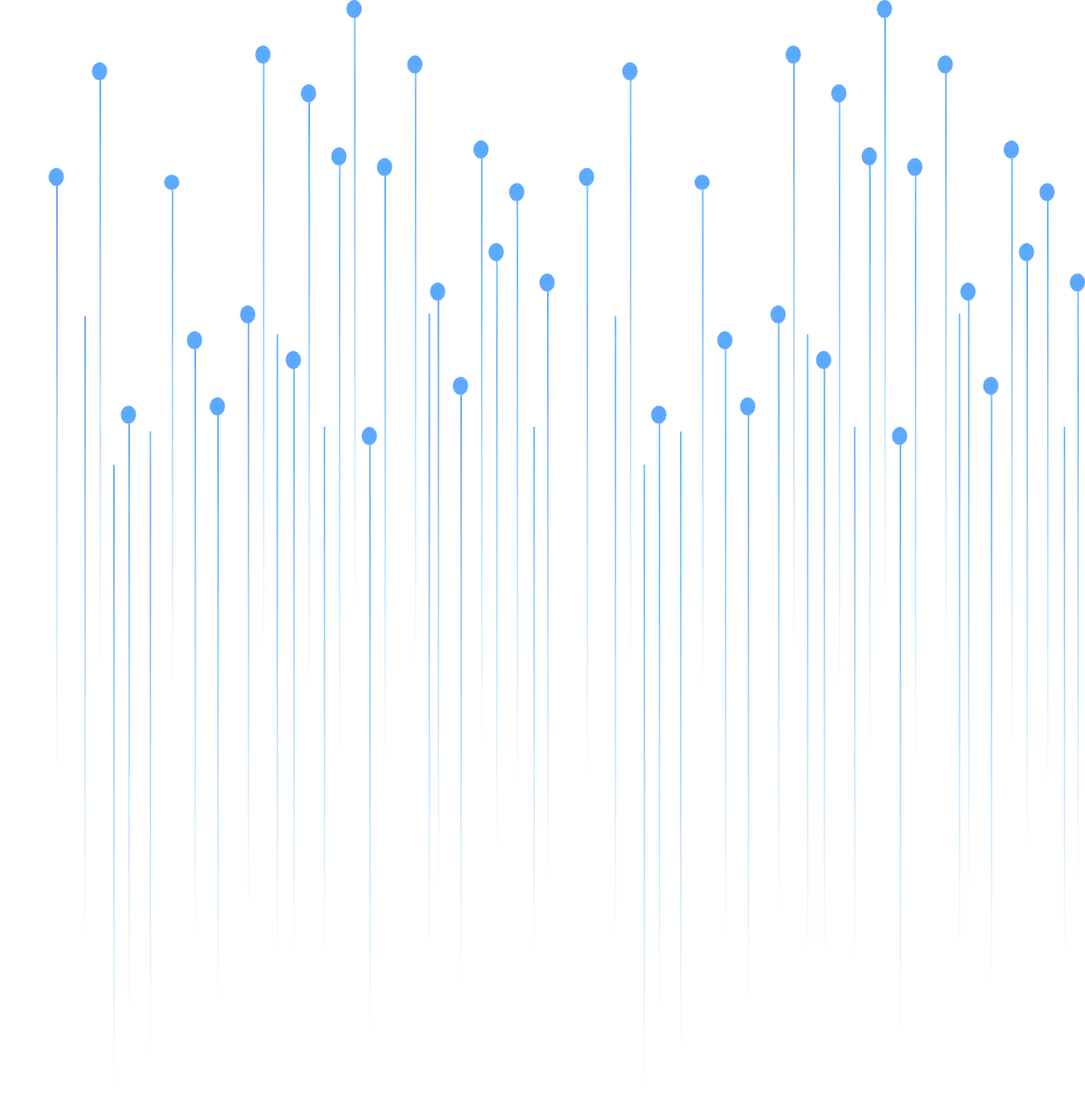
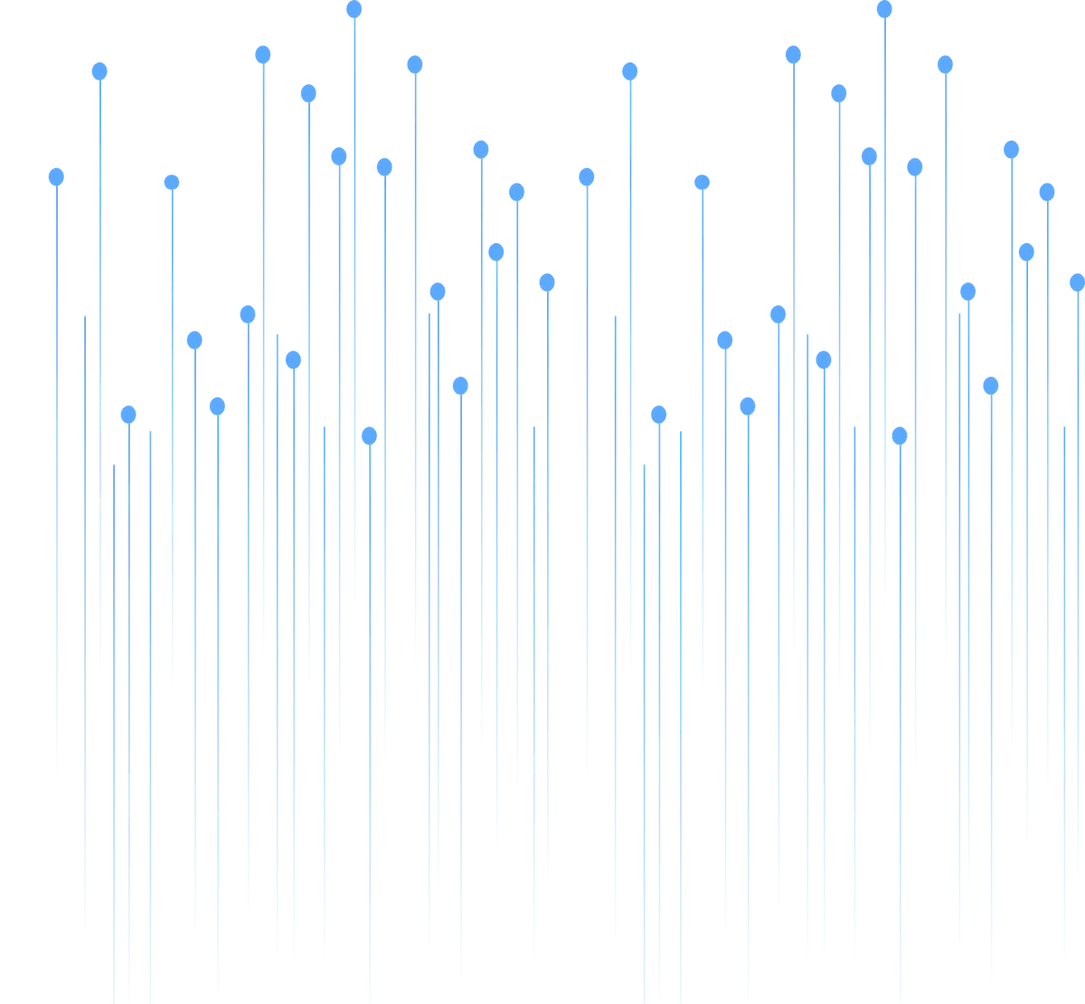
Updates

diff --git a/css/index.min.css b/css/index.min.css
@@ -1,1 +1,1 @@
-*{border:0;margin:0;padding:0}*,:after,:before{box-sizing:border-box}:after,:before{display:inline-block}body,html{height:100%}body{line-height:1;scrollbar-gutter:stable;-ms-text-size-adjust:100%;-moz-text-size-adjust:100%;-webkit-text-size-adjust:100%;-webkit-font-smoothing:antialiased;-moz-osx-font-smoothing:grayscale}button,input,textarea{background-color:transparent;color:inherit;font-family:inherit;font-size:inherit;line-height:inherit}input,textarea{width:100%}label{display:inline-block}button,option,select{cursor:pointer}a{color:inherit;display:inline-block;text-decoration:none}ul li{list-style:none}img{height:auto;max-width:100%;vertical-align:middle}h1,h2,h3,h4,h5,h6{font-size:inherit;font-weight:inherit}address{font-style:normal}body{color:#0a0a0a;font-family:Arial,sans-serif;font-size:1rem;line-height:1.2;min-width:20rem}[data-fls-scrolllock] body{overflow:hidden;overscroll-behavior:none;touch-action:none}.wrapper{display:flex;flex-direction:column;min-height:100%;overflow:clip}.wrapper>main{flex:1 1 auto}.wrapper>*{min-width:0}[class*=__container]{margin:0 auto;max-width:97.5rem;padding-left:1.25rem;padding-right:1.25rem}html{scroll-behavior:smooth}.about{position:relative}.about__bg-wrapper{inset:0;overflow:hidden;position:absolute;z-index:-1}.about__container{position:relative}.block-about{opacity:0;transform:translateY(3.75rem) scale(1);transform:translateY(1.25rem);transform-origin:top center;transition:transform .6s cubic-bezier(.22,1,.36,1),opacity .6s ease;will-change:transform,opacity}.block-about.is-show{opacity:1;transform:translateY(0)}.block-about.--watcher-out{opacity:0;transform:scaleX(.7) scaleY(1.1) translateY(-6.25rem)}.block-about__header{display:flex;min-height:2.5rem;position:relative}.block-about__header,.block-about__label{align-items:center;justify-content:center}.block-about__label{background:#394662;border-radius:6.25rem;color:#fff;display:inline-flex;display:flex;font-size:.75rem;font-weight:700;justify-self:flex-start;left:0;padding:.8125rem;position:absolute;text-transform:uppercase;top:0}.block-about__items{display:grid;gap:1.25rem;grid-template-columns:repeat(4,1fr)}.block-about__title{text-align:center;text-transform:uppercase}.block-about--first .item-about__content{min-height:7.625rem}.block-about--first .item-about{min-height:21.375rem}.block-about--third .block-about__items{grid-template-columns:repeat(3,1fr)}.block-about--third .item-about{min-height:23.9375rem}.block-about--third .item-about__content{min-height:7.625rem}.item-about{--opened-text-height:0rem;background:#fff;border:.0625rem solid #d3d7de;border-radius:1rem;display:flex;flex-direction:column;min-height:19.5625rem;overflow:hidden}.item-about__image{flex:1 1 auto;min-height:5rem;position:relative;transition:flex-basis .5s ease;width:100%}.item-about__image img{height:100%;inset:0;object-fit:cover;position:absolute;width:100%}.item-about__content{flex:0 0 auto;min-height:5.8125rem;padding:1.5625rem 2.5rem 2rem}.item-about__title{line-height:1.15;margin:0}.item-about__text{line-height:1.25;max-height:0;opacity:0;overflow:hidden;padding-top:.5rem;transition:max-height .5s ease,opacity .35s ease}.item-about__text a{font-size:.75rem}.item-about__text small{display:block;line-height:1.3;margin-top:.5rem}html.touch .item-about.is-open .item-about__text{max-height:var(--opened-text-height);opacity:1}html.touch .item-about.is-open .item-about__image{flex-basis:calc(100% - var(--content-closed-height) - var(--opened-text-height))}.why{opacity:0;transform:translateY(1.875rem);transform-origin:top center;transition:opacity 1s ease .5s,transform 1s ease .5s}.why.--watcher-view{opacity:1;transform:translateY(0)}.why{background:#394662;border-radius:2.5rem;color:#fff}.why__title{align-items:flex-end;display:flex;gap:.75rem;justify-content:center;letter-spacing:-.0625rem;margin-bottom:1rem;text-align:center;text-transform:uppercase}.why__title span{margin-bottom:-.5rem}.why__title img{align-self:flex-end;justify-self:flex-start}.why__text b{font-weight:700}.table-tariff{opacity:0;transform:translateY(1.875rem);transform-origin:top center;transition:opacity 1s ease .5s,transform 1s ease .5s}.table-tariff.--watcher-view{opacity:1;transform:translateY(0)}.table-tariff{background-color:#fff;border:.0625rem solid #e5e7eb;border-radius:1rem;margin:0 auto;width:100%}.table-tariff__row{align-items:center;display:grid;grid-template-columns:2fr 1fr 1fr;transition:all .2s}.table-tariff__head{background:#f5f7fa;font-weight:500;padding:1.125rem 0}.table-tariff__body .table-tariff__row{border-top:.0625rem solid #e5e7eb}.table-tariff__cell{line-height:1.2;padding:1.125rem 2.5rem}.table-tariff__cell--feature{text-align:left}.table-tariff__cell--plan{text-align:center}.table-tariff__footer{background:#f5f7fa;line-height:1.3;padding:1.3125rem 1.25rem;text-align:center}.text-green{color:#39b54a;font-weight:500}.connect{opacity:0;transform:translateY(1.25rem);transition:all 1s .3s}.connect.--watcher-view{opacity:1;transform:translateY(0)}.connect{background-color:#39b54a;border-radius:2.5rem;color:#fff}.connect__title{letter-spacing:-.0625rem;text-align:center;text-transform:uppercase}.connect__form-wrapper{background:hsla(0,0%,100%,.2);border-radius:1rem;min-height:9rem}.connect__form-wrapper,.connect__success{align-items:center;display:flex;justify-content:center}.connect__success{display:none;text-align:center;width:100%}.connect__success-title{font-weight:700;text-transform:uppercase}.form-connect{display:grid;gap:1.25rem;grid-template-columns:1fr 1fr 13.75rem;width:100%}.form-connect__input{background:#fff;border-radius:.5rem;color:#0a0a0a;height:4rem;outline:none;padding:1rem 2.5rem}.form-connect__button{background-color:#fff;border-radius:6.25rem;color:#0a0a0a;padding:1.375rem;transition:all .3s}.content-wrapper{height:100%;overflow:hidden;position:relative}.content-wrapper__track{animation:linesMove 10s linear infinite;display:flex;flex-direction:column;left:0;position:absolute;top:0;width:100%}.content-wrapper__line{display:block;opacity:.15;width:100%;z-index:-1}@keyframes linesMove{0%{transform:translateY(0)}to{transform:translateY(-50%)}}.header{background:url(../assets/img/header_bg.webp) 50%/cover no-repeat;min-height:100vh;position:relative;z-index:1000}.header:after{background:linear-gradient(141.1deg,hsla(0,0%,4%,.8) 12.085%,hsla(0,0%,4%,0) 60.296%);content:"";height:100%;left:0;position:absolute;top:0;width:100%}.header{color:#fff;display:flex}.header__video{height:100%;left:0;object-fit:cover;position:absolute;top:0;width:100%}.header__container{align-items:center;display:flex;justify-content:stretch;width:100%}.header__layout{position:relative;z-index:10}.header__visual{align-items:flex-end;display:flex;flex-wrap:wrap;margin-bottom:1rem;opacity:0;row-gap:.625rem;transform:translateY(1.25rem);transition:all .8s .1s}.header__visual.--watcher-view{opacity:1;transform:translateY(0)}.header__title{max-width:62.5rem;opacity:0;transform:translateY(1.25rem);transition:all .8s .4s}.header__title.--watcher-view{opacity:1;transform:translateY(0)}.header__button-wrapper{opacity:0;transform:translateY(1.25rem);transition:all 1s .7s}.header__button-wrapper.--watcher-view{opacity:1;transform:translateY(0)}.header__button{align-items:center;background-color:#39b54a;border:.0625rem solid #39b54a;border-radius:6.25rem;display:inline-flex;justify-content:center;padding:1.75rem 6.625rem;transition:all .3s ease}.header__button:active{transform:translateY(.3125rem)}.footer__top{align-items:center;display:flex;flex-wrap:wrap;gap:2rem;justify-content:space-between}.footer__logo img{margin-top:-1.25rem;width:100%}.footer__url{transition:all .3s}.footer__social{display:flex}.footer__social a{transition:all .3s}.footer__social{gap:1rem}.bottom-footer{background:#e5e7eb;color:rgba(0,0,0,.5);padding:.625rem 1.25rem}.bottom-footer__container{display:flex;flex-wrap:wrap;gap:1rem;justify-content:space-between}input[type=email],input[type=tel],input[type=text],textarea{-webkit-appearance:none;-moz-appearance:none;appearance:none}.input{caret-color:inherit;display:block;width:100%}.input::placeholder{color:rgba(54,65,83,.8)}.input[placeholder]:not([data-fls-placeholder-nohiden])::placeholder{transition:opacity .3s}.input[placeholder]:not([data-fls-placeholder-nohiden]):focus::placeholder{opacity:0}textarea.input{padding:0;resize:vertical}.button{display:inline-flex;padding:0}.button--fw{width:100%}@media (max-width:97.5em){.item-about__content{padding:1.5625rem}}@media (width <= 68.75em){.block-about__items{gap:.75rem}.block-about--first .item-about__content{min-height:6.25rem}.block-about--first .item-about,.block-about--third .item-about{min-height:19.375rem}.block-about--third .item-about__content{min-height:5.3125rem}}@media (max-width:68.75rem){.block-about{opacity:1!important;transform:none!important}}@media (max-width:68.75em){.block-about--third .block-about__items,.block-about__items{grid-template-columns:repeat(2,1fr)}}@media (max-width:61.99875em){.item-about__content{padding:1.25rem}.table-tariff__cell{padding:.875rem 1.5rem}.form-connect{gap:.9375rem;grid-template-columns:1fr 1fr 11.25rem}.form-connect__input{padding:1rem}.header__button{padding:2rem 6rem}}@media (max-width:47.99875em){.block-about__header{flex-direction:column;row-gap:1.25rem}.block-about__label{position:relative}.block-about--first .item-about,.block-about--third .item-about{min-height:17.5rem}.item-about__content{min-height:6.25rem;padding:1rem}.table-tariff__row{grid-template-columns:1.6fr 1fr 1fr}.table-tariff__cell{padding:.875rem 1rem}.table-tariff__cell--plan{padding:.875rem .75rem}.form-connect{font-size:.875rem;grid-template-columns:1fr}.form-connect__input{padding:1rem 2rem}.form-connect__button{padding:1.125rem}.header:after{background:linear-gradient(141.1deg,hsla(0,0%,4%,.8) 12.085%,hsla(0,0%,4%,.45) 60.296%)}.header__button{padding:1.5rem 4rem}}@media (max-width:37.5em){.block-about--third .block-about__items{grid-template-columns:repeat(1,1fr)}}@media (width <= 35em){.block-about--first .item-about__content{min-height:4.375rem}.block-about--first .item-about{min-height:13.75rem}.block-about--third .item-about{min-height:15rem}.block-about--third .item-about__content{min-height:4.375rem}.item-about{min-height:13.75rem}}@media (max-width:35em){.block-about__items{grid-template-columns:1fr}}@media (width <= 33.75em){.item-about__content{min-height:4.375rem}}@media (max-width:29.99875em){.form-connect__input{padding:1rem}.header__button{padding:1.25rem 3rem;width:100%}}@media (width <= 20em){.block-about{padding-bottom:3.75rem;padding-top:3.75rem}.block-about__header{margin-bottom:1.625rem}.block-about__title,.item-about__title{font-size:1.125rem}.why{margin-bottom:3.75rem;margin-left:.0625rem;margin-right:1rem;padding-bottom:3.125rem;padding-top:3.125rem}.why__title{font-size:1.375rem}.why__title img{width:5rem}.why__text{font-size:1rem}.tariff{margin-bottom:3.75rem}.table-tariff{font-size:.875rem}.table-tariff__cell--smart img{width:5rem}.connect{margin-left:1rem;margin-right:1rem;padding-bottom:2.5rem;padding-top:2.5rem}.connect__title{font-size:1.375rem;margin-bottom:1.625rem}.connect__form-wrapper{padding:1rem}.connect__success-title{font-size:1.25rem}.header{padding-bottom:5rem;padding-top:5rem}.header__visual{column-gap:1.25rem}.header__title{font-size:2.25rem}.header__logo{width:11.25rem}.header__logo-smart{width:10.625rem}.header__button{font-size:1.5rem;margin-top:1.5rem}.footer__top{padding-bottom:2.5rem;padding-top:2.5rem}.footer__logo{width:7.5rem}.footer__url{font-size:1.125rem}.footer__social a{width:1.5rem}.bottom-footer{font-size:.75rem}}@media (width > 20em) and (width <= 97.5em){.header{padding-bottom:clamp(5rem,4.354838709675rem + 3.2258064516vw,7.5rem);padding-top:clamp(5rem,4.354838709675rem + 3.2258064516vw,7.5rem)}.header__visual{column-gap:clamp(1.25rem,.895161290325rem + 1.7741935484vw,2.625rem)}.header__title{font-size:clamp(2.25rem,1.798387096775rem + 2.2580645161vw,4rem)}.header__logo{width:clamp(11.25rem,8.6209677419375rem + 13.1451612903vw,21.4375rem)}.header__logo-smart{width:clamp(10.625rem,8.02822580645rem + 12.9838709677vw,20.6875rem)}.header__button{font-size:clamp(1.5rem,1.3225806451625rem + .8870967742vw,2.1875rem);margin-top:clamp(1.5rem,1.24193548386875rem + 1.2903225806vw,2.5rem)}.footer__top{padding-bottom:clamp(2.5rem,1.53225806451875rem + 4.8387096774vw,6.25rem);padding-top:clamp(2.5rem,1.53225806451875rem + 4.8387096774vw,6.25rem)}.footer__logo{width:clamp(7.5rem,5.30645161290625rem + 10.9677419355vw,16rem)}.footer__url{font-size:clamp(1.125rem,1.02822580645rem + .4838709677vw,1.5rem)}.footer__social a{width:clamp(1.5rem,1.3709677419375rem + .6451612903vw,2rem)}.bottom-footer{font-size:clamp(.75rem,.68548387096875rem + .3225806452vw,1rem)}}@media (width > 20em) and (width <= 120em){.block-about{padding-bottom:clamp(3.75rem,2.25rem + 7.5vw,11.25rem);padding-top:clamp(3.75rem,2.25rem + 7.5vw,11.25rem)}.block-about__header{margin-bottom:clamp(1.625rem,.95rem + 3.375vw,5rem)}.block-about__title,.item-about__title{font-size:clamp(1.125rem,1.05rem + .375vw,1.5rem)}.why{margin-bottom:clamp(3.75rem,3rem + 3.75vw,7.5rem);margin-left:clamp(.0625rem,-.55rem + 3.0625vw,3.125rem);margin-right:clamp(1rem,.575rem + 2.125vw,3.125rem);padding-bottom:clamp(3.125rem,2.375rem + 3.75vw,6.875rem);padding-top:clamp(3.125rem,2.375rem + 3.75vw,6.875rem)}.why__title{font-size:clamp(1.375rem,1.25rem + .625vw,2rem)}.why__title img{width:clamp(5rem,4.3125rem + 3.4375vw,8.4375rem)}.why__text{font-size:clamp(1rem,.9rem + .5vw,1.5rem)}.tariff{margin-bottom:clamp(3.75rem,3.25rem + 2.5vw,6.25rem)}.table-tariff{font-size:clamp(.875rem,.75rem + .625vw,1.5rem)}.table-tariff__cell--smart img{width:clamp(5rem,4.1125rem + 4.4375vw,9.4375rem)}.connect{margin-left:clamp(1rem,.575rem + 2.125vw,3.125rem);margin-right:clamp(1rem,.575rem + 2.125vw,3.125rem);padding-bottom:clamp(2.5rem,2.25rem + 1.25vw,3.75rem);padding-top:clamp(2.5rem,2.25rem + 1.25vw,3.75rem)}.connect__title{font-size:clamp(1.375rem,1.25rem + .625vw,2rem);margin-bottom:clamp(1.625rem,1.15rem + 2.375vw,4rem)}.connect__form-wrapper{padding:clamp(1rem,.7rem + 1.5vw,2.5rem)}.connect__success-title{font-size:clamp(1.25rem,1.15rem + .5vw,1.75rem)}}@media (min-width:47.99875em){.block-about__title{margin:0 12.5rem}.footer__url{margin-right:-10%}}@media (min-width:61.99875em){.why__content{padding:0 3.125rem}.table-tariff{margin:0 1.5rem}.connect__body{padding:0 2.125rem}}@media (width > 68.75em) and (width <= 120em){.block-about__items{gap:clamp(.75rem,.07926829268125rem + .9756097561vw,1.25rem)}}@media (width > 97.5em){.header{padding-bottom:7.5rem;padding-top:7.5rem}.header__visual{column-gap:2.625rem}.header__title{font-size:4rem}.header__logo{width:21.4375rem}.header__logo-smart{width:20.6875rem}.header__button{font-size:2.1875rem;margin-top:2.5rem}.footer__top{padding-bottom:6.25rem;padding-top:6.25rem}.footer__logo{width:16rem}.footer__url{font-size:1.5rem}.footer__social a{width:2rem}.bottom-footer{font-size:1rem}}@media (width > 120em){.block-about{padding-bottom:11.25rem;padding-top:11.25rem}.block-about__header{margin-bottom:5rem}.block-about__items{gap:1.25rem}.block-about__title,.item-about__title{font-size:1.5rem}.why{margin-bottom:7.5rem;margin-left:3.125rem;margin-right:3.125rem;padding-bottom:6.875rem;padding-top:6.875rem}.why__title{font-size:2rem}.why__title img{width:8.4375rem}.why__text{font-size:1.5rem}.tariff{margin-bottom:6.25rem}.table-tariff{font-size:1.5rem}.table-tariff__cell--smart img{width:9.4375rem}.connect{margin-left:3.125rem;margin-right:3.125rem;padding-bottom:3.75rem;padding-top:3.75rem}.connect__title{font-size:2rem;margin-bottom:4rem}.connect__form-wrapper{padding:2.5rem}.connect__success-title{font-size:1.75rem}}@media (any-hover:hover),(pointer:fine){html:not([data-fls-touch]) .item-about:hover .item-about__text{max-height:var(--opened-text-height);opacity:1}html:not([data-fls-touch]) .item-about:hover .item-about__image{flex-basis:calc(100% - var(--content-closed-height) - var(--opened-text-height))}html:not([data-fls-touch]) .item-about__text a:hover{text-decoration:underline}html:not([data-fls-touch]) .table-tariff__row:hover{background:rgba(57,181,74,.15)}html:not([data-fls-touch]) .table-tariff__footer:hover,html:not([data-fls-touch]) .table-tariff__head:hover{background:#f5f7fa}html:not([data-fls-touch]) .form-connect__button:hover{background-color:#0a0a0a;color:inherit}html:not([data-fls-touch]) .header__button:hover{background-color:#101828;border-color:#fff}html:not([data-fls-touch]) .footer__url:hover{color:#39b54a}html:not([data-fls-touch]) .footer__social a:hover{transform:scale(1.12)}html:not([data-fls-touch]) .bottom-footer__policy:hover{text-decoration:underline}}
+*{border:0;margin:0;padding:0}*,:after,:before{box-sizing:border-box}:after,:before{display:inline-block}body,html{height:100%}body{line-height:1;scrollbar-gutter:stable;-ms-text-size-adjust:100%;-moz-text-size-adjust:100%;-webkit-text-size-adjust:100%;-webkit-font-smoothing:antialiased;-moz-osx-font-smoothing:grayscale}button,input,textarea{background-color:transparent;color:inherit;font-family:inherit;font-size:inherit;line-height:inherit}input,textarea{width:100%}label{display:inline-block}button,option,select{cursor:pointer}a{color:inherit;display:inline-block;text-decoration:none}ul li{list-style:none}img{height:auto;max-width:100%;vertical-align:middle}h1,h2,h3,h4,h5,h6{font-size:inherit;font-weight:inherit}address{font-style:normal}body{color:#0a0a0a;font-family:Arial,sans-serif;font-size:1rem;line-height:1.2;min-width:20rem}[data-fls-scrolllock] body{overflow:hidden;overscroll-behavior:none;touch-action:none}.wrapper{display:flex;flex-direction:column;min-height:100%;overflow:clip}.wrapper>main{flex:1 1 auto}.wrapper>*{min-width:0}[class*=__container]{margin:0 auto;max-width:97.5rem;padding-left:1.25rem;padding-right:1.25rem}html{scroll-behavior:smooth}.content-wrapper{height:100%;overflow:hidden;position:relative}.content-wrapper__track{animation:linesMove 70s linear infinite;display:flex;flex-direction:column;left:0;position:absolute;top:0;width:100%;will-change:transform}.content-wrapper__line{display:block;flex:0 0 auto;opacity:.1;position:relative;width:100%;z-index:-1}.content-wrapper__line:not(:first-child){margin-top:-43.75rem}@keyframes linesMove{0%{transform:translateY(0)}to{transform:translateY(-100%)}}.about{position:relative}.about__bg-wrapper{inset:0;overflow:hidden;position:absolute;z-index:-1}.about__container{position:relative}.block-about{opacity:0;transform:translateY(3.75rem) scale(1);transform:translateY(1.25rem);transform-origin:top center;transition:transform .6s cubic-bezier(.22,1,.36,1),opacity .6s ease;will-change:transform,opacity}.block-about.is-show{opacity:1;transform:translateY(0)}.block-about.--watcher-out{opacity:0;transform:scaleX(.7) scaleY(1.1) translateY(-6.25rem)}.block-about__header{display:flex;min-height:2.5rem;position:relative}.block-about__header,.block-about__label{align-items:center;justify-content:center}.block-about__label{background:#394662;border-radius:6.25rem;color:#fff;display:inline-flex;display:flex;font-size:.75rem;font-weight:700;justify-self:flex-start;left:0;padding:.8125rem;position:absolute;text-transform:uppercase;top:0}.block-about__items{display:grid;gap:1.25rem;grid-template-columns:repeat(4,1fr)}.block-about__title{text-align:center;text-transform:uppercase}.block-about--first .item-about__content{min-height:7.625rem}.block-about--first .item-about{min-height:21.375rem}.block-about--third .block-about__items{grid-template-columns:repeat(3,1fr)}.block-about--third .item-about{min-height:23.9375rem}.block-about--third .item-about__content{min-height:7.625rem}.item-about{--opened-text-height:0rem;background:#fff;border:.0625rem solid #d3d7de;border-radius:1rem;display:flex;flex-direction:column;min-height:19.5625rem;overflow:hidden}.item-about__image{flex:1 1 auto;min-height:5rem;position:relative;transition:flex-basis .5s ease;width:100%}.item-about__image img{height:100%;inset:0;object-fit:cover;position:absolute;width:100%}.item-about__content{flex:0 0 auto;min-height:5.8125rem;padding:1.5625rem 2.5rem 2rem}.item-about__title{line-height:1.15;margin:0}.item-about__text{line-height:1.25;max-height:0;opacity:0;overflow:hidden;padding-top:.5rem;transition:max-height .5s ease,opacity .35s ease}.item-about__text a{font-size:.75rem}.item-about__text small{display:block;line-height:1.3;margin-top:.5rem}html.touch .item-about.is-open .item-about__text{max-height:var(--opened-text-height);opacity:1}html.touch .item-about.is-open .item-about__image{flex-basis:calc(100% - var(--content-closed-height) - var(--opened-text-height))}.why{opacity:0;transform:translateY(1.875rem);transform-origin:top center;transition:opacity 1s ease .5s,transform 1s ease .5s}.why.--watcher-view{opacity:1;transform:translateY(0)}.why{background:#394662;border-radius:2.5rem;color:#fff}.why__title{align-items:flex-end;display:flex;gap:.75rem;justify-content:center;letter-spacing:-.0625rem;margin-bottom:1rem;text-align:center;text-transform:uppercase}.why__title span{margin-bottom:-.5rem}.why__title img{align-self:flex-end;justify-self:flex-start}.why__text b{font-weight:700}.table-tariff{opacity:0;transform:translateY(1.875rem);transform-origin:top center;transition:opacity 1s ease .5s,transform 1s ease .5s}.table-tariff.--watcher-view{opacity:1;transform:translateY(0)}.table-tariff{background-color:#fff;border:.0625rem solid #e5e7eb;border-radius:1rem;margin:0 auto;width:100%}.table-tariff__row{align-items:center;display:grid;grid-template-columns:2fr 1fr 1fr;transition:all .2s}.table-tariff__head{background:#f5f7fa;font-weight:500;padding:1.125rem 0}.table-tariff__body .table-tariff__row{border-top:.0625rem solid #e5e7eb}.table-tariff__cell{line-height:1.2;padding:1.125rem 2.5rem}.table-tariff__cell--feature{text-align:left}.table-tariff__cell--plan{text-align:center}.table-tariff__footer{background:#f5f7fa;line-height:1.3;padding:1.3125rem 1.25rem;text-align:center}.text-green{color:#39b54a;font-weight:500}.connect{opacity:0;transform:translateY(1.25rem);transition:all 1s .3s}.connect.--watcher-view{opacity:1;transform:translateY(0)}.connect{background-color:#39b54a;border-radius:2.5rem;color:#fff}.connect__title{letter-spacing:-.0625rem;text-align:center;text-transform:uppercase}.connect__form-wrapper{background:hsla(0,0%,100%,.2);border-radius:1rem;min-height:9rem}.connect__form-wrapper,.connect__success{align-items:center;display:flex;justify-content:center}.connect__success{display:none;text-align:center;width:100%}.connect__success-title{font-weight:700;text-transform:uppercase}.form-connect{display:grid;gap:1.25rem;grid-template-columns:1fr 1fr 13.75rem;width:100%}.form-connect__input{background:#fff;border-radius:.5rem;color:#0a0a0a;height:4rem;outline:none;padding:1rem 2.5rem}.form-connect__button{background-color:#fff;border-radius:6.25rem;color:#0a0a0a;padding:1.375rem;transition:all .3s}.header{background:url(../assets/img/header_bg.webp) 50%/cover no-repeat;min-height:100vh;position:relative;z-index:1000}.header:after{background:linear-gradient(141.1deg,hsla(0,0%,4%,.8) 12.085%,hsla(0,0%,4%,0) 60.296%);content:"";height:100%;left:0;position:absolute;top:0;width:100%}.header{color:#fff;display:flex}.header__video{height:100%;left:0;object-fit:cover;position:absolute;top:0;width:100%}.header__container{align-items:center;display:flex;justify-content:stretch;width:100%}.header__layout{position:relative;z-index:10}.header__visual{align-items:flex-end;display:flex;flex-wrap:wrap;margin-bottom:1rem;opacity:0;row-gap:.625rem;transform:translateY(1.25rem);transition:all .8s .1s}.header__visual.--watcher-view{opacity:1;transform:translateY(0)}.header__title{max-width:62.5rem;opacity:0;transform:translateY(1.25rem);transition:all .8s .4s}.header__title.--watcher-view{opacity:1;transform:translateY(0)}.header__button-wrapper{opacity:0;transform:translateY(1.25rem);transition:all 1s .7s}.header__button-wrapper.--watcher-view{opacity:1;transform:translateY(0)}.header__button{align-items:center;background-color:#39b54a;border:.0625rem solid #39b54a;border-radius:6.25rem;display:inline-flex;justify-content:center;padding:1.75rem 6.625rem;transition:all .3s ease}.header__button:active{transform:translateY(.3125rem)}.footer__top{align-items:center;display:flex;flex-wrap:wrap;gap:2rem;justify-content:space-between}.footer__logo img{margin-top:-1.25rem;width:100%}.footer__url{transition:all .3s}.footer__social{display:flex}.footer__social a{transition:all .3s}.footer__social{gap:1rem}.bottom-footer{background:#e5e7eb;color:rgba(0,0,0,.5);padding:.625rem 1.25rem}.bottom-footer__container{display:flex;flex-wrap:wrap;gap:1rem;justify-content:space-between}input[type=email],input[type=tel],input[type=text],textarea{-webkit-appearance:none;-moz-appearance:none;appearance:none}.input{caret-color:inherit;display:block;width:100%}.input::placeholder{color:rgba(54,65,83,.8)}.input[placeholder]:not([data-fls-placeholder-nohiden])::placeholder{transition:opacity .3s}.input[placeholder]:not([data-fls-placeholder-nohiden]):focus::placeholder{opacity:0}textarea.input{padding:0;resize:vertical}.button{display:inline-flex;padding:0}.button--fw{width:100%}@media (max-width:97.5em){.item-about__content{padding:1.5625rem}}@media (width <= 68.75em){.block-about__items{gap:.75rem}.block-about--first .item-about__content{min-height:6.25rem}.block-about--first .item-about,.block-about--third .item-about{min-height:19.375rem}.block-about--third .item-about__content{min-height:5.3125rem}}@media (max-width:68.75rem){.block-about{opacity:1!important;transform:none!important}}@media (max-width:68.75em){.block-about--third .block-about__items,.block-about__items{grid-template-columns:repeat(2,1fr)}}@media (max-width:61.99875em){.item-about__content{padding:1.25rem}.table-tariff__cell{padding:.875rem 1.5rem}.form-connect{gap:.9375rem;grid-template-columns:1fr 1fr 11.25rem}.form-connect__input{padding:1rem}.header__button{padding:2rem 6rem}}@media (max-width:47.99875em){.block-about__header{flex-direction:column;row-gap:1.25rem}.block-about__label{position:relative}.block-about--first .item-about,.block-about--third .item-about{min-height:17.5rem}.item-about__content{min-height:6.25rem;padding:1rem}.table-tariff__row{grid-template-columns:1.6fr 1fr 1fr}.table-tariff__cell{padding:.875rem 1rem}.table-tariff__cell--plan{padding:.875rem .75rem}.form-connect{font-size:.875rem;grid-template-columns:1fr}.form-connect__input{padding:1rem 2rem}.form-connect__button{padding:1.125rem}.header:after{background:linear-gradient(141.1deg,hsla(0,0%,4%,.8) 12.085%,hsla(0,0%,4%,.45) 60.296%)}.header__button{padding:1.5rem 4rem}}@media (max-width:37.5em){.block-about--third .block-about__items{grid-template-columns:repeat(1,1fr)}}@media (width <= 35em){.block-about--first .item-about__content{min-height:4.375rem}.block-about--first .item-about{min-height:13.75rem}.block-about--third .item-about{min-height:15rem}.block-about--third .item-about__content{min-height:4.375rem}.item-about{min-height:13.75rem}}@media (max-width:35em){.block-about__items{grid-template-columns:1fr}}@media (width <= 33.75em){.item-about__content{min-height:4.375rem}}@media (max-width:29.99875em){.form-connect__input{padding:1rem}.header__button{padding:1.25rem 3rem;width:100%}}@media (width <= 20em){.block-about{padding-bottom:3.75rem;padding-top:3.75rem}.block-about__header{margin-bottom:1.625rem}.block-about__title,.item-about__title{font-size:1.125rem}.why{margin-bottom:3.75rem;margin-left:.0625rem;margin-right:1rem;padding-bottom:3.125rem;padding-top:3.125rem}.why__title{font-size:1.375rem}.why__title img{width:5rem}.why__text{font-size:1rem}.tariff{margin-bottom:3.75rem}.table-tariff{font-size:.875rem}.table-tariff__cell--smart img{width:5rem}.connect{margin-left:1rem;margin-right:1rem;padding-bottom:2.5rem;padding-top:2.5rem}.connect__title{font-size:1.375rem;margin-bottom:1.625rem}.connect__form-wrapper{padding:1rem}.connect__success-title{font-size:1.25rem}.header{padding-bottom:5rem;padding-top:5rem}.header__visual{column-gap:1.25rem}.header__title{font-size:2.25rem}.header__logo{width:11.25rem}.header__logo-smart{width:10.625rem}.header__button{font-size:1.5rem;margin-top:1.5rem}.footer__top{padding-bottom:2.5rem;padding-top:2.5rem}.footer__logo{width:7.5rem}.footer__url{font-size:1.125rem}.footer__social a{width:1.5rem}.bottom-footer{font-size:.75rem}}@media (width > 20em) and (width <= 97.5em){.header{padding-bottom:clamp(5rem,4.354838709675rem + 3.2258064516vw,7.5rem);padding-top:clamp(5rem,4.354838709675rem + 3.2258064516vw,7.5rem)}.header__visual{column-gap:clamp(1.25rem,.895161290325rem + 1.7741935484vw,2.625rem)}.header__title{font-size:clamp(2.25rem,1.798387096775rem + 2.2580645161vw,4rem)}.header__logo{width:clamp(11.25rem,8.6209677419375rem + 13.1451612903vw,21.4375rem)}.header__logo-smart{width:clamp(10.625rem,8.02822580645rem + 12.9838709677vw,20.6875rem)}.header__button{font-size:clamp(1.5rem,1.3225806451625rem + .8870967742vw,2.1875rem);margin-top:clamp(1.5rem,1.24193548386875rem + 1.2903225806vw,2.5rem)}.footer__top{padding-bottom:clamp(2.5rem,1.53225806451875rem + 4.8387096774vw,6.25rem);padding-top:clamp(2.5rem,1.53225806451875rem + 4.8387096774vw,6.25rem)}.footer__logo{width:clamp(7.5rem,5.30645161290625rem + 10.9677419355vw,16rem)}.footer__url{font-size:clamp(1.125rem,1.02822580645rem + .4838709677vw,1.5rem)}.footer__social a{width:clamp(1.5rem,1.3709677419375rem + .6451612903vw,2rem)}.bottom-footer{font-size:clamp(.75rem,.68548387096875rem + .3225806452vw,1rem)}}@media (width > 20em) and (width <= 120em){.block-about{padding-bottom:clamp(3.75rem,2.25rem + 7.5vw,11.25rem);padding-top:clamp(3.75rem,2.25rem + 7.5vw,11.25rem)}.block-about__header{margin-bottom:clamp(1.625rem,.95rem + 3.375vw,5rem)}.block-about__title,.item-about__title{font-size:clamp(1.125rem,1.05rem + .375vw,1.5rem)}.why{margin-bottom:clamp(3.75rem,3rem + 3.75vw,7.5rem);margin-left:clamp(.0625rem,-.55rem + 3.0625vw,3.125rem);margin-right:clamp(1rem,.575rem + 2.125vw,3.125rem);padding-bottom:clamp(3.125rem,2.375rem + 3.75vw,6.875rem);padding-top:clamp(3.125rem,2.375rem + 3.75vw,6.875rem)}.why__title{font-size:clamp(1.375rem,1.25rem + .625vw,2rem)}.why__title img{width:clamp(5rem,4.3125rem + 3.4375vw,8.4375rem)}.why__text{font-size:clamp(1rem,.9rem + .5vw,1.5rem)}.tariff{margin-bottom:clamp(3.75rem,3.25rem + 2.5vw,6.25rem)}.table-tariff{font-size:clamp(.875rem,.75rem + .625vw,1.5rem)}.table-tariff__cell--smart img{width:clamp(5rem,4.1125rem + 4.4375vw,9.4375rem)}.connect{margin-left:clamp(1rem,.575rem + 2.125vw,3.125rem);margin-right:clamp(1rem,.575rem + 2.125vw,3.125rem);padding-bottom:clamp(2.5rem,2.25rem + 1.25vw,3.75rem);padding-top:clamp(2.5rem,2.25rem + 1.25vw,3.75rem)}.connect__title{font-size:clamp(1.375rem,1.25rem + .625vw,2rem);margin-bottom:clamp(1.625rem,1.15rem + 2.375vw,4rem)}.connect__form-wrapper{padding:clamp(1rem,.7rem + 1.5vw,2.5rem)}.connect__success-title{font-size:clamp(1.25rem,1.15rem + .5vw,1.75rem)}}@media (min-width:47.99875em){.block-about__title{margin:0 12.5rem}.footer__url{margin-right:-10%}}@media (min-width:61.99875em){.why__content{padding:0 3.125rem}.table-tariff{margin:0 1.5rem}.connect__body{padding:0 2.125rem}}@media (width > 68.75em) and (width <= 120em){.block-about__items{gap:clamp(.75rem,.07926829268125rem + .9756097561vw,1.25rem)}}@media (width > 97.5em){.header{padding-bottom:7.5rem;padding-top:7.5rem}.header__visual{column-gap:2.625rem}.header__title{font-size:4rem}.header__logo{width:21.4375rem}.header__logo-smart{width:20.6875rem}.header__button{font-size:2.1875rem;margin-top:2.5rem}.footer__top{padding-bottom:6.25rem;padding-top:6.25rem}.footer__logo{width:16rem}.footer__url{font-size:1.5rem}.footer__social a{width:2rem}.bottom-footer{font-size:1rem}}@media (width > 120em){.block-about{padding-bottom:11.25rem;padding-top:11.25rem}.block-about__header{margin-bottom:5rem}.block-about__items{gap:1.25rem}.block-about__title,.item-about__title{font-size:1.5rem}.why{margin-bottom:7.5rem;margin-left:3.125rem;margin-right:3.125rem;padding-bottom:6.875rem;padding-top:6.875rem}.why__title{font-size:2rem}.why__title img{width:8.4375rem}.why__text{font-size:1.5rem}.tariff{margin-bottom:6.25rem}.table-tariff{font-size:1.5rem}.table-tariff__cell--smart img{width:9.4375rem}.connect{margin-left:3.125rem;margin-right:3.125rem;padding-bottom:3.75rem;padding-top:3.75rem}.connect__title{font-size:2rem;margin-bottom:4rem}.connect__form-wrapper{padding:2.5rem}.connect__success-title{font-size:1.75rem}}@media (any-hover:hover),(pointer:fine){html:not([data-fls-touch]) .item-about:hover .item-about__text{max-height:var(--opened-text-height);opacity:1}html:not([data-fls-touch]) .item-about:hover .item-about__image{flex-basis:calc(100% - var(--content-closed-height) - var(--opened-text-height))}html:not([data-fls-touch]) .item-about__text a:hover{text-decoration:underline}html:not([data-fls-touch]) .table-tariff__row:hover{background:rgba(57,181,74,.15)}html:not([data-fls-touch]) .table-tariff__footer:hover,html:not([data-fls-touch]) .table-tariff__head:hover{background:#f5f7fa}html:not([data-fls-touch]) .form-connect__button:hover{background-color:#0a0a0a;color:inherit}html:not([data-fls-touch]) .header__button:hover{background-color:#101828;border-color:#fff}html:not([data-fls-touch]) .footer__url:hover{color:#39b54a}html:not([data-fls-touch]) .footer__social a:hover{transform:scale(1.12)}html:not([data-fls-touch]) .bottom-footer__policy:hover{text-decoration:underline}}

diff --git a/index.html b/index.html
@@ -5,9 +5,9 @@
 		<meta name="viewport" content="width=device-width, initial-scale=1.0">
 		<link rel="shortcut icon" href="assets/img/favicon.ico">
 		<title>Kolo.TB - Smart</title>
-		<script type="module" crossorigin="" src="./js/index.min.js?v=1774357380572"></script>
-		<link rel="modulepreload" crossorigin="" href="./js/common.min.js?v=1774357380572">
-		<link rel="stylesheet" crossorigin="" href="./css/index.min.css?v=1774357380572">
+		<script type="module" crossorigin="" src="./js/index.min.js?v=1774360845970"></script>
+		<link rel="modulepreload" crossorigin="" href="./js/common.min.js?v=1774360845970">
+		<link rel="stylesheet" crossorigin="" href="./css/index.min.css?v=1774360845970">
 	</head>
 	<body>
 		<div class="wrapper">
@@ -31,6 +31,98 @@
 			<main class="page">
 				<div data-fls-index="" class="content-wrapper">
 					<div class="content-wrapper__track">
+						<picture>
+							<source media="(max-width: 600px)" srcset="./assets/img/lines-600.webp" type="image/webp">
+							<source media="(max-width: 1200px)" srcset="./assets/img/lines-1200.webp" type="image/webp">
+							<img alt="" class="content-wrapper__line" src="./assets/img/lines.webp">
+						</picture>
+						<picture>
+							<source media="(max-width: 600px)" srcset="./assets/img/lines-600.webp" type="image/webp">
+							<source media="(max-width: 1200px)" srcset="./assets/img/lines-1200.webp" type="image/webp">
+							<img alt="" class="content-wrapper__line" src="./assets/img/lines.webp">
+						</picture>
+						<picture>
+							<source media="(max-width: 600px)" srcset="./assets/img/lines-600.webp" type="image/webp">
+							<source media="(max-width: 1200px)" srcset="./assets/img/lines-1200.webp" type="image/webp">
+							<img alt="" class="content-wrapper__line" src="./assets/img/lines.webp">
+						</picture>
+						<picture>
+							<source media="(max-width: 600px)" srcset="./assets/img/lines-600.webp" type="image/webp">
+							<source media="(max-width: 1200px)" srcset="./assets/img/lines-1200.webp" type="image/webp">
+							<img alt="" class="content-wrapper__line" src="./assets/img/lines.webp">
+						</picture>
+						<picture>
+							<source media="(max-width: 600px)" srcset="./assets/img/lines-600.webp" type="image/webp">
+							<source media="(max-width: 1200px)" srcset="./assets/img/lines-1200.webp" type="image/webp">
+							<img alt="" class="content-wrapper__line" src="./assets/img/lines.webp">
+						</picture>
+						<picture>
+							<source media="(max-width: 600px)" srcset="./assets/img/lines-600.webp" type="image/webp">
+							<source media="(max-width: 1200px)" srcset="./assets/img/lines-1200.webp" type="image/webp">
+							<img alt="" class="content-wrapper__line" src="./assets/img/lines.webp">
+						</picture>
+						<picture>
+							<source media="(max-width: 600px)" srcset="./assets/img/lines-600.webp" type="image/webp">
+							<source media="(max-width: 1200px)" srcset="./assets/img/lines-1200.webp" type="image/webp">
+							<img alt="" class="content-wrapper__line" src="./assets/img/lines.webp">
+						</picture>
+						<picture>
+							<source media="(max-width: 600px)" srcset="./assets/img/lines-600.webp" type="image/webp">
+							<source media="(max-width: 1200px)" srcset="./assets/img/lines-1200.webp" type="image/webp">
+							<img alt="" class="content-wrapper__line" src="./assets/img/lines.webp">
+						</picture>
+						<picture>
+							<source media="(max-width: 600px)" srcset="./assets/img/lines-600.webp" type="image/webp">
+							<source media="(max-width: 1200px)" srcset="./assets/img/lines-1200.webp" type="image/webp">
+							<img alt="" class="content-wrapper__line" src="./assets/img/lines.webp">
+						</picture>
+						<picture>
+							<source media="(max-width: 600px)" srcset="./assets/img/lines-600.webp" type="image/webp">
+							<source media="(max-width: 1200px)" srcset="./assets/img/lines-1200.webp" type="image/webp">
+							<img alt="" class="content-wrapper__line" src="./assets/img/lines.webp">
+						</picture>
+					</div>
+					<div class="content-wrapper__track">
+						<picture>
+							<source media="(max-width: 600px)" srcset="./assets/img/lines-600.webp" type="image/webp">
+							<source media="(max-width: 1200px)" srcset="./assets/img/lines-1200.webp" type="image/webp">
+							<img alt="" class="content-wrapper__line" src="./assets/img/lines.webp">
+						</picture>
+						<picture>
+							<source media="(max-width: 600px)" srcset="./assets/img/lines-600.webp" type="image/webp">
+							<source media="(max-width: 1200px)" srcset="./assets/img/lines-1200.webp" type="image/webp">
+							<img alt="" class="content-wrapper__line" src="./assets/img/lines.webp">
+						</picture>
+						<picture>
+							<source media="(max-width: 600px)" srcset="./assets/img/lines-600.webp" type="image/webp">
+							<source media="(max-width: 1200px)" srcset="./assets/img/lines-1200.webp" type="image/webp">
+							<img alt="" class="content-wrapper__line" src="./assets/img/lines.webp">
+						</picture>
+						<picture>
+							<source media="(max-width: 600px)" srcset="./assets/img/lines-600.webp" type="image/webp">
+							<source media="(max-width: 1200px)" srcset="./assets/img/lines-1200.webp" type="image/webp">
+							<img alt="" class="content-wrapper__line" src="./assets/img/lines.webp">
+						</picture>
+						<picture>
+							<source media="(max-width: 600px)" srcset="./assets/img/lines-600.webp" type="image/webp">
+							<source media="(max-width: 1200px)" srcset="./assets/img/lines-1200.webp" type="image/webp">
+							<img alt="" class="content-wrapper__line" src="./assets/img/lines.webp">
+						</picture>
+						<picture>
+							<source media="(max-width: 600px)" srcset="./assets/img/lines-600.webp" type="image/webp">
+							<source media="(max-width: 1200px)" srcset="./assets/img/lines-1200.webp" type="image/webp">
+							<img alt="" class="content-wrapper__line" src="./assets/img/lines.webp">
+						</picture>
+						<picture>
+							<source media="(max-width: 600px)" srcset="./assets/img/lines-600.webp" type="image/webp">
+							<source media="(max-width: 1200px)" srcset="./assets/img/lines-1200.webp" type="image/webp">
+							<img alt="" class="content-wrapper__line" src="./assets/img/lines.webp">
+						</picture>
+						<picture>
+							<source media="(max-width: 600px)" srcset="./assets/img/lines-600.webp" type="image/webp">
+							<source media="(max-width: 1200px)" srcset="./assets/img/lines-1200.webp" type="image/webp">
+							<img alt="" class="content-wrapper__line" src="./assets/img/lines.webp">
+						</picture>
 						<picture>
 							<source media="(max-width: 600px)" srcset="./assets/img/lines-600.webp" type="image/webp">
 							<source media="(max-width: 1200px)" srcset="./assets/img/lines-1200.webp" type="image/webp">

diff --git a/css/dev/index.css b/css/dev/index.css
@@ -107,6 +107,41 @@ html {
   scroll-behavior: smooth;
 }
 
+.content-wrapper {
+  position: relative;
+  overflow: hidden;
+  height: 100%;
+}
+.content-wrapper__track {
+  position: absolute;
+  top: 0;
+  left: 0;
+  width: 100%;
+  display: flex;
+  flex-direction: column;
+  animation: linesMove 70s linear infinite;
+  will-change: transform;
+}
+.content-wrapper__line {
+  opacity: 0.1;
+  width: 100%;
+  display: block;
+  flex: 0 0 auto;
+  position: relative;
+  z-index: -1;
+}
+.content-wrapper__line:not(:first-child) {
+  margin-top: -43.75rem;
+}
+
+@keyframes linesMove {
+  0% {
+    transform: translateY(0);
+  }
+  100% {
+    transform: translateY(-100%);
+  }
+}
 .about {
   position: relative;
 }
@@ -467,38 +502,6 @@ html.touch .item-about.is-open .item-about__image {
   padding: 1.375rem;
   color: #0A0A0A;
   transition: all 0.3s;
-}
-.content-wrapper {
-  position: relative;
-  overflow: hidden;
-  height: 100%;
-}
-.content-wrapper__track {
-  position: absolute;
-  top: 0;
-  left: 0;
-  width: 100%;
-  display: flex;
-  flex-direction: column;
-  animation: linesMove 10s linear infinite;
-}
-.content-wrapper {
-  /* .content-wrapper__line */
-}
-.content-wrapper__line {
-  opacity: 0.15;
-  width: 100%;
-  display: block;
-  z-index: -1;
-}
-
-@keyframes linesMove {
-  0% {
-    transform: translateY(0);
-  }
-  100% {
-    transform: translateY(-50%);
-  }
 }/* Generated by vite-plugin-svg-spritemap */
 .header {
   position: relative;
